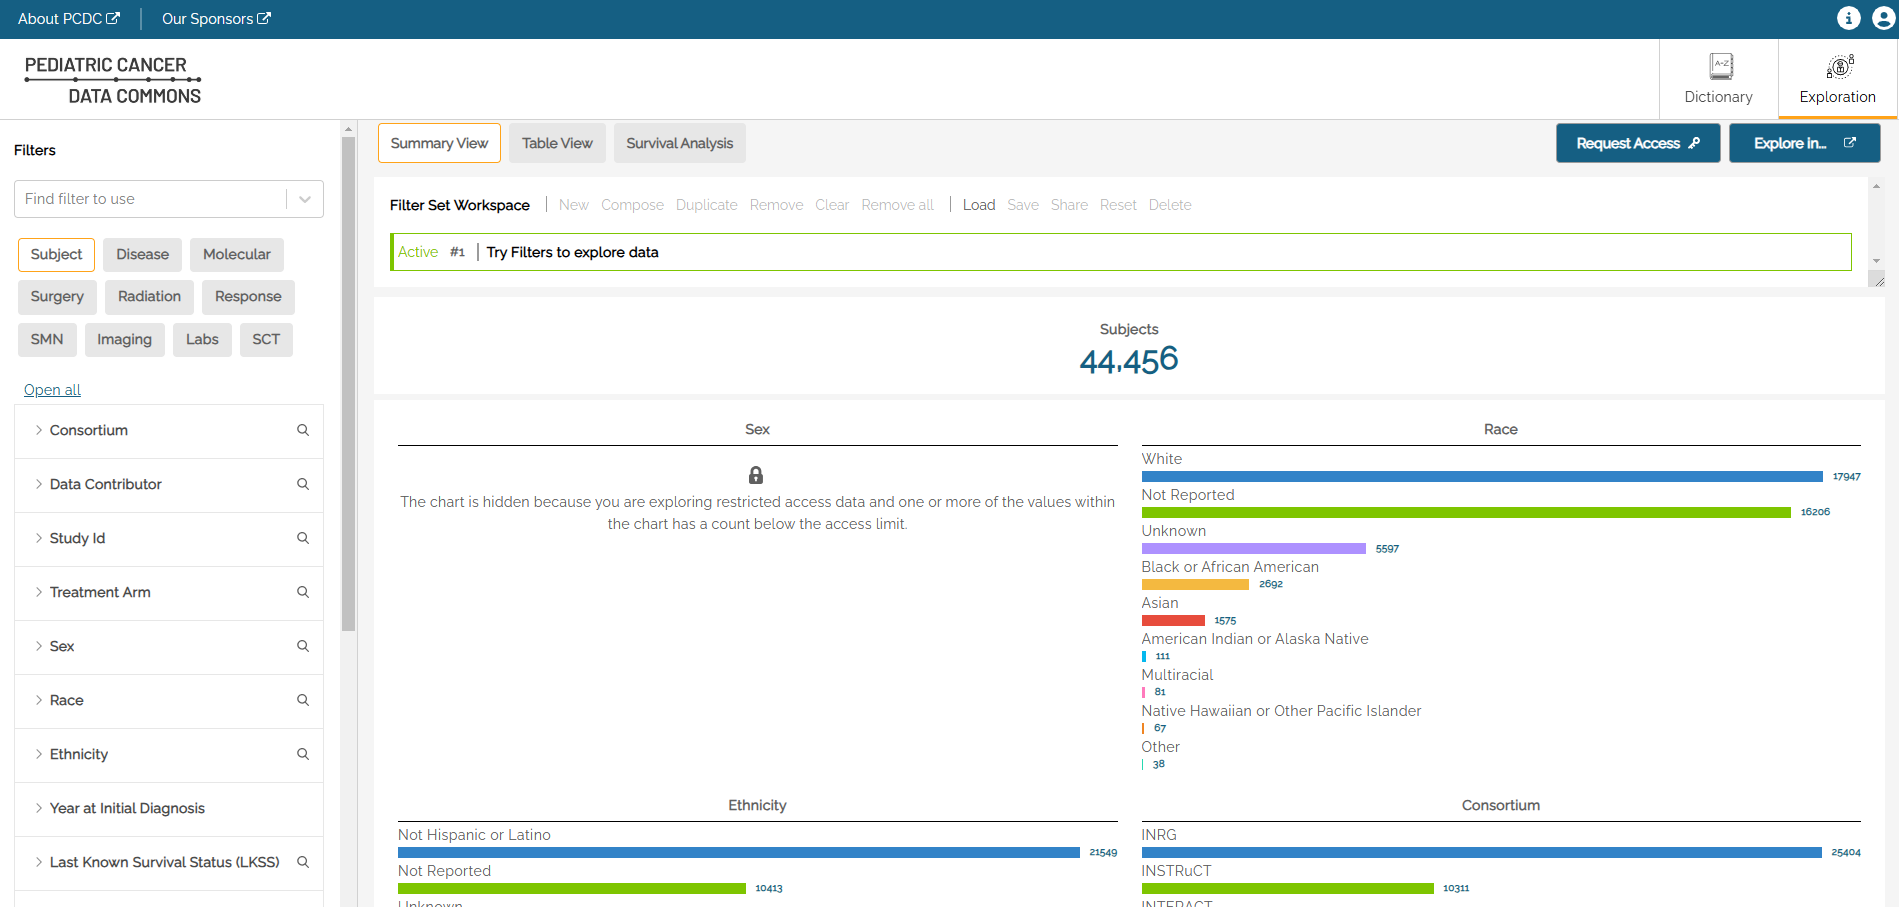
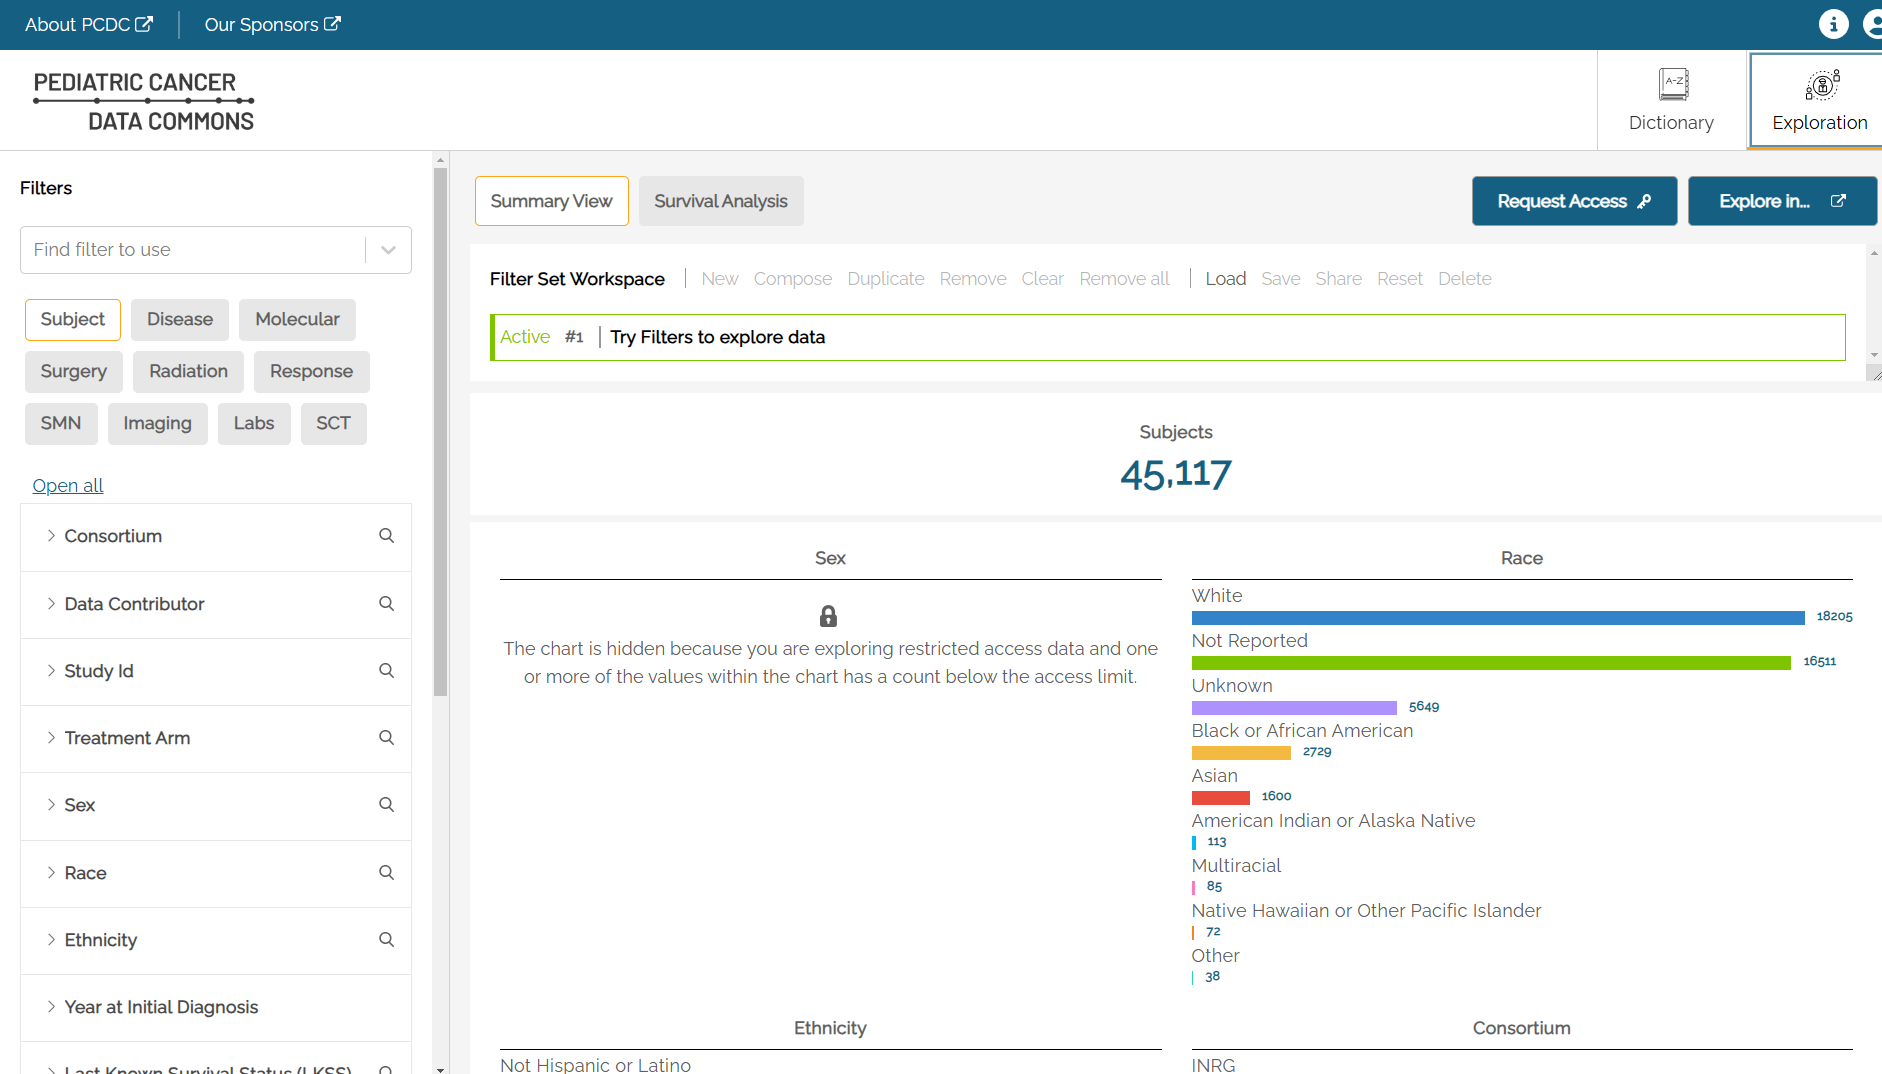
v1.31.0 documentation changes
- Updated user guide with new screenshots and release v1.31
- Updated Software Updates doc
- Updated Data Release Updates doc

diff --git a/docs/DataReleases.md b/docs/DataReleases.md
@@ -2,6 +2,7 @@ Link to [Software Updates](https://docs.pedscommons.org/SoftwareUpdates/)
 
 | Version |  Release Date &nbsp; &nbsp; &nbsp; &nbsp; &nbsp; &nbsp; &nbsp; &nbsp;   | Description |
 | ------- | -------------- | ----------------------------|
+| pcdc_20241008_1 | Oct 08, 2024 | Overall increase of 661 subjects (665 added, 4 removed); INRG COG: 111 subject + ancillary records added, 4 removed; INTERACT EuPAL BFM-SG: 154 subjects + ancillary added; INTERACT EuPAL NOPHO: 115 subjects + ancillary added; MaGIC COG, AGCT0132 study: 285 subjects + ancillary added |
 | pcdc_20240709_2 | Jul 09, 2024 | Added 1171 new subjects + ancillary records for INSTRuCT and INTERACT, along with 1755 molecular analysis records for existing INRG COG subjects. INRG COG Mosse ALK: 1755 molecular analysis records for existing subjects; INSTRuCT (NRSTS) MMT data set, RMS95 study: 573 subjects + ancillary; INTERACT COG data set, AAML03P1 study: 339 subjects + ancillary; INTERACT (EuPAL) DCOG data set: 117 subjects + ancillary; INTERACT (EuPAL) PPLLSG data set: 142 subjects + ancillary |
 | pcdc_20240409 | Apr 09, 2024 | Updated disease phase timing records and added disease characteristics and myeloid sarcoma involvement records for INTERACT JPLSG, and updated histology records for NODAL COG |
 | pcdc_20240130 | Jan 30, 2024 | Initial data release for the INTERACT consortium: AMLBFM2004, AMLBFM2012, AMLBFMRegistry2012, AAML0531,AML02, AML08, and JPLSGAML05 studies; INSTRuCT: inclusion of previously missing data and new cases; INRG: updated data from COG and updated trial assignment; NODAL: new data from the AHOD03P1 study. |

diff --git a/docs/DataPortalUserGuide.md b/docs/DataPortalUserGuide.md
@@ -1,7 +1,7 @@
 ![Logo](img/PcdcLogo.png)
 
 # Pediatric Cancer Data Commons<br> Data Portal User Guide
-###### v1.30.0 User Guide
+###### v1.31.0 User Guide
 ## Introduction
 
 The Pediatric Cancer Data Commons (PCDC) brings together clinical, genomic, and imaging data from institutions around the world that are working to transform pediatric cancer research and outcomes. Headquartered at the University of Chicago, the PCDC works with international leaders in pediatric cancers and the US National Cancer Institute to develop and apply uniform data standards, facilitating the collection, combination, and analysis of data from many different sources. 
@@ -174,7 +174,7 @@ Once selected, the main page will show the filtered data set. To clear the searc
 
 #### Selected Filters
 
-An underline in the filter name indicates that filters are active within that tab. In the below example, the **Subject** and **Disease** tabs have active filters. Clicking into the tabs will show which filters are selected (also underlined). In the example below, **Initial Diagnosis** is selected, along with **Tumor Site** from within the **Disease** tab.
+An underline in the filter name indicates that filters are active within that tab. In the below example, the **Subject** and **Disease** tabs have active filters. Clicking into the tabs will show which filters are selected (also underlined). In the example below, **Initial Diagnosis** is selected, along with **Histology** from within the **Disease** tab.
 
 ![Summary View](img/imageW7.png)
 

diff --git a/docs/SoftwareUpdates.md b/docs/SoftwareUpdates.md
@@ -2,7 +2,8 @@ Link to [Data Release Updates](https://docs.pedscommons.org/DataReleases/)
 
 | Version | Release Date &nbsp; &nbsp; &nbsp; &nbsp; &nbsp; &nbsp;| Description |
 | ------- | -------------- | ----------------------------|
-| v1.30.0 | Sept 10, 2024 | Backend functionality to expand admin functions for project requests |
+| v1.31.0 | Oct 08, 2024 | (data release only) |
+| v1.30.0 | Sept 10, 2024 | Backend changes to expand admin functions for project requests |
 | v1.29.0 | Aug 13, 2024 | Implemented new API for CCDI federation services |
 | v1.28.0 | Jul 09, 2024 | (data release only) |
 | v1.27.0 | Jun 11, 2024 | Performance improvement: automatically load and update consortia into the amanuensis DB based on data in the graph. |
